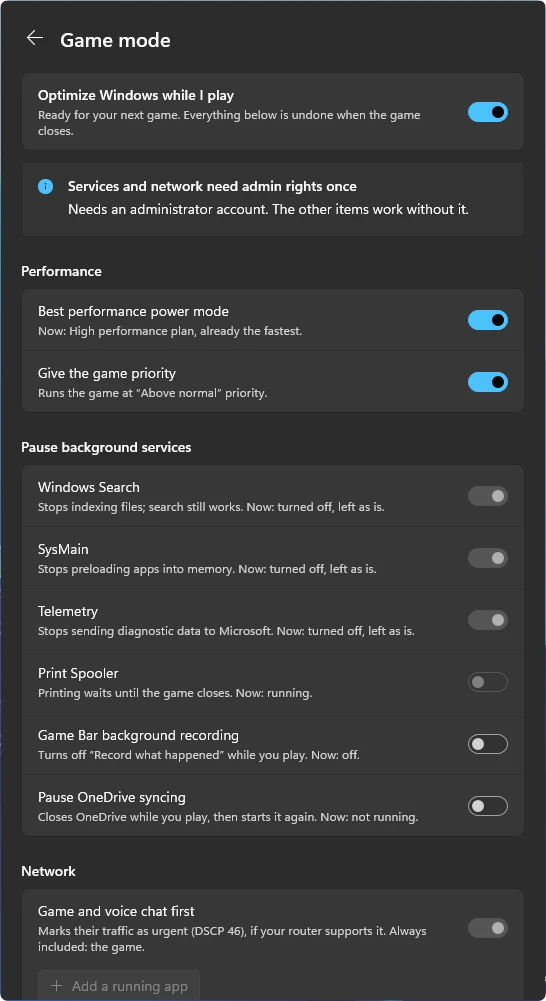
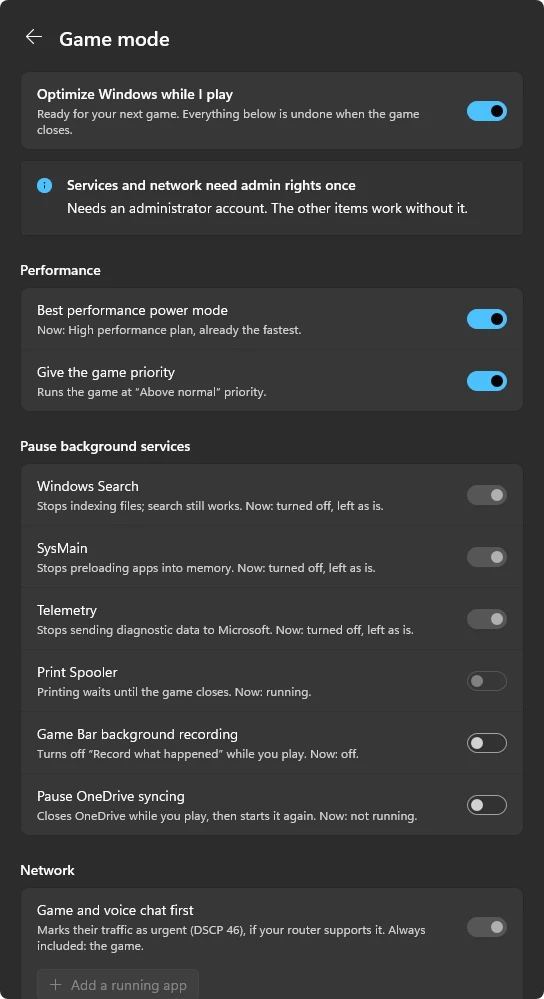
Website and README: screenshots without Windows' 1 px window border, corners rounded at 8 px
Docs-Unchanged: only the home page's and README's pictures change

Claude-Session: https://claude.ai/code/session_013NHTd2W3i2smpk8FchwJ2Q

diff --git a/site/index.html b/site/index.html
@@ -244,28 +244,28 @@
         <figure class="shot">
           <picture>
             <source srcset="screenshots/dark-welcome-back.webp" media="(prefers-color-scheme: dark)">
-            <img src="screenshots/light-welcome-back.webp" width="546" height="1001" loading="lazy" decoding="async" alt="Binder after a game closed: Welcome back, Starfall Drift, 1 hour 50 minutes played, above a grid of game covers.">
+            <img src="screenshots/light-welcome-back.webp" width="544" height="999" loading="lazy" decoding="async" alt="Binder after a game closed: Welcome back, Starfall Drift, 1 hour 50 minutes played, above a grid of game covers.">
           </picture>
           <figcaption><strong>Back from a game</strong>The session you just played, then all your games.</figcaption>
         </figure>
         <figure class="shot">
           <picture>
             <source srcset="screenshots/dark-detail.webp" media="(prefers-color-scheme: dark)">
-            <img src="screenshots/light-detail.webp" width="546" height="1001" loading="lazy" decoding="async" alt="The page of the game Starfall Drift: Play, playtime, last played, size on disk and a chart of the last eight weeks.">
+            <img src="screenshots/light-detail.webp" width="544" height="999" loading="lazy" decoding="async" alt="The page of the game Starfall Drift: Play, playtime, last played, size on disk and a chart of the last eight weeks.">
           </picture>
           <figcaption><strong>A game’s page</strong>Playtime by week, recent sessions and the game’s settings.</figcaption>
         </figure>
         <figure class="shot">
           <picture>
             <source srcset="screenshots/dark-free-up-space.webp" media="(prefers-color-scheme: dark)">
-            <img src="screenshots/light-free-up-space.webp" width="546" height="1001" loading="lazy" decoding="async" alt="Free up space: the games on drive C as tiles sized by the space they use, and a suggestion to uninstall Dune Runners.">
+            <img src="screenshots/light-free-up-space.webp" width="544" height="999" loading="lazy" decoding="async" alt="Free up space: the games on drive C as tiles sized by the space they use, and a suggestion to uninstall Dune Runners.">
           </picture>
           <figcaption><strong>Free up space</strong>What you could remove to fit a new game.</figcaption>
         </figure>
         <figure class="shot">
           <picture>
             <source srcset="screenshots/dark-game-mode.webp" media="(prefers-color-scheme: dark)">
-            <img src="screenshots/light-game-mode.webp" width="546" height="1001" loading="lazy" decoding="async" alt="The Game mode page: the best performance power mode, game priority and background services to pause, each with a switch.">
+            <img src="screenshots/light-game-mode.webp" width="544" height="999" loading="lazy" decoding="async" alt="The Game mode page: the best performance power mode, game priority and background services to pause, each with a switch.">
           </picture>
           <figcaption><strong>Game mode</strong>What Windows changes while you play, item by item.</figcaption>
         </figure>
